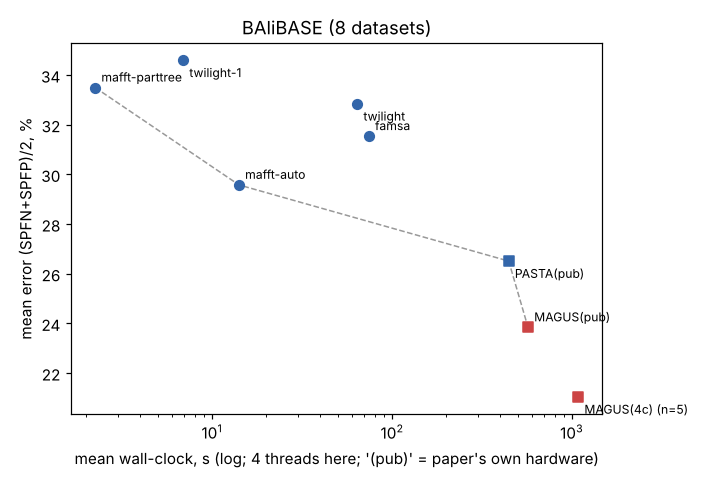
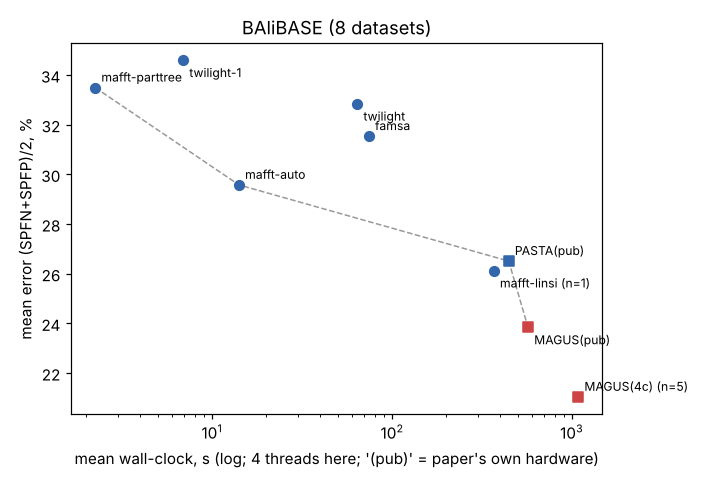
sota2026: diagnostics, nucleotide merge pilot, BAliBASE L-INS-i
Claude-Session: https://claude.ai/code/session_012Rgpxy2uEEPz2XSy4Tz17n

diff --git a/cs581/sota2026/code/analyze.py b/cs581/sota2026/code/analyze.py
@@ -225,6 +225,9 @@ def merge_pilot():
     if not os.path.exists(path):
         return
     rows = [r for r in map(json.loads, open(path)) if r["status"] == "ok"]
+    for r in rows:
+        if r["backbones"] == "tool":
+            r["tool"] += " (subsets+backbones)"
     ctl = {r["rep"]: r for r in rows if r["tool"] == "cached-linsi"}
     out = ["## MAGUS with a different base method (merge pilot)\n",
            "Same MAGUS decomposition (25 subsets) and the same 10 MAFFT L-INS-i backbones as MAGUS's own run; "

diff --git a/cs581/sota2026/results/full_table.md b/cs581/sota2026/results/full_table.md
@@ -2,28 +2,28 @@
 
 MAGUS(pub)/PASTA(pub) = FastSP on the authors' published alignment of the same replicate; their seconds are the paper's own timing (different hardware). MAGUS(4c) = earlier rerun of MAGUS(Fast) with the paper's flags on this 4-core machine type (cs581/experiments/runs/<rep>/prep.json; random backbones, so not identical to the published alignment).
 
-| dataset | MAGUS(pub) | MAGUS(4c) | PASTA(pub) | famsa | twilight-1 | twilight | mafft-parttree | mafft-auto |
-|---|---|---|---|---|---|---|---|---|
-| 1000L1_R0 | 8.1 (716s) | 7.5 (1870s) | 8.3 (1844s) | 33.1 (48s) | 97.9 (17s) | 98.1 (136s) | 98.0 (39s) | 99.0 (18s) |
-| 1000L2_R0 | 3.8 (673s) | 4.5 (1500s) | 6.3 (1615s) | 37.9 (223s) | 97.8 (20s) | 98.1 (243s) | 98.0 (39s) | 99.3 (20s) |
-| 1000L3_R0 | 12.7 (873s) | 11.3 (1737s) | 15.8 (2486s) | 63.6 (344s) | 98.0 (21s) | 98.2 (253s) | 98.3 (39s) | 99.3 (20s) |
-| RNASim_R0 | 9.6 (2227s) | 9.9 (888s) | 10.1 (3102s) | fail rc=-9 (357s) | 14.4 (21s) | 11.1 (230s) | 23.7 (60s) | 22.0 (26s) |
-| BBA0039_R0 | 4.5 (157s) | 4.7 (244s) | 4.3 (462s) | 5.5 (56s) | 6.9 (8s) | 8.0 (100s) | 6.7 (2s) | 5.5 (1s) |
-| BBA0067_R0 | 25.6 (371s) | 26.3 (1051s) | 25.7 (373s) | 32.0 (87s) | 42.9 (6s) | 37.3 (54s) | 38.4 (2s) | 33.2 (13s) |
-| BBA0081_R0 | 57.0 (1012s) |  | 74.1 (548s) | 72.2 (96s) | 75.9 (6s) | 72.3 (45s) | 75.7 (2s) | 68.3 (45s) |
-| BBA0101_R0 | 28.5 (477s) | 29.2 (829s) | 29.2 (381s) | 35.2 (88s) | 42.4 (7s) | 39.7 (65s) | 39.7 (3s) | 36.5 (14s) |
-| BBA0117_R0 | 12.1 (14s) |  | 12.1 (35s) | 15.2 (11s) | 24.5 (0s) | 20.4 (45s) | 25.1 (0s) | 16.4 (1s) |
-| BBA0134_R0 | 18.7 (845s) |  | 20.4 (573s) | 33.2 (83s) | 32.8 (6s) | 28.3 (68s) | 29.8 (2s) | 25.2 (13s) |
-| BBA0154_R0 | 21.1 (562s) | 21.7 (1106s) | 22.5 (307s) | 25.3 (77s) | 25.4 (6s) | 26.3 (55s) | 25.7 (2s) | 25.1 (7s) |
-| BBA0190_R0 | 23.1 (1117s) | 23.4 (2177s) | 23.9 (879s) | 33.7 (97s) | 26.0 (16s) | 30.4 (80s) | 26.9 (4s) | 26.5 (18s) |
-| 16S.T_R0 | 9.9 (2918s) |  | 12.9 (6979s) | 17.6 (123s) | 12.7 (78s) |  | 18.8 (215s) | 19.4 (241s) |
-| 1000M1_R0 | 11.5 (674s) |  | 13.0 (1993s) | 50.4 (773s) | 97.6 (30s) |  | 98.1 (39s) | 99.2 (25s) |
-| 1000M2_R0 | 8.3 (968s) | 8.2 (1493s) | 13.7 (2007s) | 43.6 (471s) | 97.9 (30s) |  | 98.0 (38s) | 99.0 (23s) |
-| 1000M3_R0 | 4.1 (586s) | 4.5 (1145s) | 5.6 (1328s) | 15.2 (254s) | 88.2 (22s) |  | 83.6 (33s) | 71.8 (17s) |
-| 1000M4_R0 | 1.1 (408s) | 1.2 (992s) | 1.5 (1205s) | 2.5 (27s) | 3.3 (8s) |  | 5.5 (21s) | 5.4 (6s) |
-| 1000S1_R0 | 8.5 (685s) | 9.8 (1563s) | 11.7 (1769s) | 26.5 (39s) | 96.8 (15s) |  | 97.1 (37s) | 98.8 (16s) |
-| 1000S2_R0 | 3.5 (476s) | 4.7 (994s) | 5.7 (1530s) | 13.7 (37s) | 96.7 (15s) |  | 96.8 (37s) | 98.9 (16s) |
-| 1000S3_R0 | 4.5 (533s) | 4.5 (1338s) | 4.9 (1343s) | 24.7 (38s) | 97.2 (16s) |  | 97.7 (38s) | 99.0 (19s) |
+| dataset | MAGUS(pub) | MAGUS(4c) | PASTA(pub) | famsa | twilight-1 | twilight | mafft-parttree | mafft-auto | mafft-linsi |
+|---|---|---|---|---|---|---|---|---|---|
+| 1000L1_R0 | 8.1 (716s) | 7.5 (1870s) | 8.3 (1844s) | 33.1 (48s) | 97.9 (17s) | 98.1 (136s) | 98.0 (39s) | 99.0 (18s) |  |
+| 1000L2_R0 | 3.8 (673s) | 4.5 (1500s) | 6.3 (1615s) | 37.9 (223s) | 97.8 (20s) | 98.1 (243s) | 98.0 (39s) | 99.3 (20s) |  |
+| 1000L3_R0 | 12.7 (873s) | 11.3 (1737s) | 15.8 (2486s) | 63.6 (344s) | 98.0 (21s) | 98.2 (253s) | 98.3 (39s) | 99.3 (20s) |  |
+| RNASim_R0 | 9.6 (2227s) | 9.9 (888s) | 10.1 (3102s) | fail rc=-9 (357s) | 14.4 (21s) | 11.1 (230s) | 23.7 (60s) | 22.0 (26s) |  |
+| BBA0039_R0 | 4.5 (157s) | 4.7 (244s) | 4.3 (462s) | 5.5 (56s) | 6.9 (8s) | 8.0 (100s) | 6.7 (2s) | 5.5 (1s) |  |
+| BBA0067_R0 | 25.6 (371s) | 26.3 (1051s) | 25.7 (373s) | 32.0 (87s) | 42.9 (6s) | 37.3 (54s) | 38.4 (2s) | 33.2 (13s) | 26.1 (367s) |
+| BBA0081_R0 | 57.0 (1012s) |  | 74.1 (548s) | 72.2 (96s) | 75.9 (6s) | 72.3 (45s) | 75.7 (2s) | 68.3 (45s) |  |
+| BBA0101_R0 | 28.5 (477s) | 29.2 (829s) | 29.2 (381s) | 35.2 (88s) | 42.4 (7s) | 39.7 (65s) | 39.7 (3s) | 36.5 (14s) |  |
+| BBA0117_R0 | 12.1 (14s) |  | 12.1 (35s) | 15.2 (11s) | 24.5 (0s) | 20.4 (45s) | 25.1 (0s) | 16.4 (1s) |  |
+| BBA0134_R0 | 18.7 (845s) |  | 20.4 (573s) | 33.2 (83s) | 32.8 (6s) | 28.3 (68s) | 29.8 (2s) | 25.2 (13s) |  |
+| BBA0154_R0 | 21.1 (562s) | 21.7 (1106s) | 22.5 (307s) | 25.3 (77s) | 25.4 (6s) | 26.3 (55s) | 25.7 (2s) | 25.1 (7s) |  |
+| BBA0190_R0 | 23.1 (1117s) | 23.4 (2177s) | 23.9 (879s) | 33.7 (97s) | 26.0 (16s) | 30.4 (80s) | 26.9 (4s) | 26.5 (18s) |  |
+| 16S.T_R0 | 9.9 (2918s) |  | 12.9 (6979s) | 17.6 (123s) | 12.7 (78s) |  | 18.8 (215s) | 19.4 (241s) |  |
+| 1000M1_R0 | 11.5 (674s) |  | 13.0 (1993s) | 50.4 (773s) | 97.6 (30s) |  | 98.1 (39s) | 99.2 (25s) |  |
+| 1000M2_R0 | 8.3 (968s) | 8.2 (1493s) | 13.7 (2007s) | 43.6 (471s) | 97.9 (30s) |  | 98.0 (38s) | 99.0 (23s) |  |
+| 1000M3_R0 | 4.1 (586s) | 4.5 (1145s) | 5.6 (1328s) | 15.2 (254s) | 88.2 (22s) |  | 83.6 (33s) | 71.8 (17s) |  |
+| 1000M4_R0 | 1.1 (408s) | 1.2 (992s) | 1.5 (1205s) | 2.5 (27s) | 3.3 (8s) |  | 5.5 (21s) | 5.4 (6s) |  |
+| 1000S1_R0 | 8.5 (685s) | 9.8 (1563s) | 11.7 (1769s) | 26.5 (39s) | 96.8 (15s) |  | 97.1 (37s) | 98.8 (16s) |  |
+| 1000S2_R0 | 3.5 (476s) | 4.7 (994s) | 5.7 (1530s) | 13.7 (37s) | 96.7 (15s) |  | 96.8 (37s) | 98.9 (16s) |  |
+| 1000S3_R0 | 4.5 (533s) | 4.5 (1338s) | 4.9 (1343s) | 24.7 (38s) | 97.2 (16s) |  | 97.7 (38s) | 99.0 (19s) |  |
 
 ## Paired comparison vs published MAGUS(Fast), same replicate (Δ = tool − MAGUS, points; W/T/L = tool better/tie(±0.05)/worse; Wilcoxon signed-rank)
 
@@ -47,6 +47,7 @@ MAGUS(pub)/PASTA(pub) = FastSP on the authors' published alignment of the same r
 | BAliBASE | twilight | 8 | +9.0 | 0/0/8 | 0.0078 |
 | BAliBASE | mafft-parttree | 8 | +9.7 | 0/0/8 | 0.0078 |
 | BAliBASE | mafft-auto | 8 | +5.7 | 0/0/8 | 0.0078 |
+| BAliBASE | mafft-linsi | 1 | +0.5 | 0/0/1 | – |
 | BAliBASE | MAGUS(4c) | 5 | +0.5 | 0/0/5 | 0.062 |
 | BAliBASE | PASTA(pub) | 8 | +2.7 | 2/0/6 | 0.055 |
 | 16S | famsa | 1 | +7.7 | 0/0/1 | – |
@@ -59,6 +60,7 @@ MAGUS(pub)/PASTA(pub) = FastSP on the authors' published alignment of the same r
 | all | twilight | 12 | +28.6 | 0/0/12 | 0.00049 |
 | all | mafft-parttree | 20 | +45.3 | 0/0/20 | 1.9e-06 |
 | all | mafft-auto | 20 | +43.6 | 0/0/20 | 1.9e-06 |
+| all | mafft-linsi | 1 | +0.5 | 0/0/1 | – |
 | all | MAGUS(4c) | 15 | +0.3 | 2/2/11 | 0.064 |
 | all | PASTA(pub) | 20 | +2.3 | 2/0/18 | 1.9e-05 |
 
@@ -66,4 +68,12 @@ MAGUS(pub)/PASTA(pub) = FastSP on the authors' published alignment of the same r
 
 | dataset | MAGUS(pub) | famsa | famsa-truetree | twilight-1 | twilight | twilight-truetree |
 |---|---|---|---|---|---|---|
-| 1000L1_R0 | 8.1 (716s) | 33.1 (48s) |  | 97.9 (17s) | 98.1 (136s) | 29.4 (16s) |
+| 1000L1_R0 | 8.1 (716s) | 33.1 (48s) | 16.3 (133s) | 97.9 (17s) | 98.1 (136s) | 29.4 (16s) |
+| 1000L2_R0 | 3.8 (673s) | 37.9 (223s) | 14.5 (125s) | 97.8 (20s) | 98.1 (243s) | 34.9 (13s) |
+| 1000L3_R0 | 12.7 (873s) | 63.6 (344s) | 27.2 (177s) | 98.0 (21s) | 98.2 (253s) | 40.9 (13s) |
+| 1000M1_R0 | 11.5 (674s) | 50.4 (773s) | 21.0 (141s) | 97.6 (30s) |  | 33.9 (13s) |
+| 1000M2_R0 | 8.3 (968s) | 43.6 (471s) | 22.4 (136s) | 97.9 (30s) |  | 23.9 (12s) |
+| 1000M3_R0 | 4.1 (586s) | 15.2 (254s) | 7.2 (252s) | 88.2 (22s) |  | 8.8 (20s) |
+| 1000M4_R0 | 1.1 (408s) | 2.5 (27s) | 2.3 (241s) | 3.3 (8s) |  | 1.1 (17s) |
+| 1000S1_R0 | 8.5 (685s) | 26.5 (39s) | 13.8 (253s) | 96.8 (15s) |  | 24.5 (24s) |
+| 1000S2_R0 | 3.5 (476s) | 13.7 (37s) |  | 96.7 (15s) |  | 11.7 (23s) |

diff --git a/cs581/sota2026/results/merge_table.md b/cs581/sota2026/results/merge_table.md
@@ -5,8 +5,13 @@ Same MAGUS decomposition (25 subsets) and the same 10 MAFFT L-INS-i backbones as
 | rep | base method | subset err (mean of 25) | MAGUS final err | Δ final vs control | subset align s (1 core) |
 |---|---|---|---|---|---|
 | 1000L3_R0 | L-INS-i (MAGUS's own) | 6.22 | 11.28 | – | – |
+| 1000L3_R0 | mafft-ginsi | 5.96 | 11.23 | -0.05 | 310 |
 | 1000M2_R0 | L-INS-i (MAGUS's own) | 3.88 | 8.23 | – | – |
+| 1000M2_R0 | mafft-ginsi | 3.59 | 7.97 | -0.25 | 288 |
+| 1000S1_R0 | L-INS-i (MAGUS's own) | 5.08 | 9.78 | – | – |
+| 1000S1_R0 | mafft-ginsi | 5.03 | 9.93 | +0.16 | 274 |
 | 16S.M_R0 | L-INS-i (MAGUS's own) | 6.97 | 12.86 | – | – |
+| 16S.M_R0 | mafft-ginsi | 6.97 | 12.89 | +0.03 | 113 |
 | BBA0039_R0 | L-INS-i (MAGUS's own) | 2.72 | 4.69 | – | – |
 | BBA0039_R0 | clustalo | 2.50 | 4.45 | -0.24 | 9 |
 | BBA0039_R0 | mafft-ginsi | 2.75 | 4.64 | -0.05 | 28 |
@@ -28,9 +33,13 @@ Same MAGUS decomposition (25 subsets) and the same 10 MAFFT L-INS-i backbones as
 | BBA0190_R0 | mafft-ginsi | 7.40 | 23.55 | +0.15 | 34 |
 | BBA0190_R0 | muscle5 | 7.04 | 22.98 | -0.42 | 130 |
 | RNASim_R0 | L-INS-i (MAGUS's own) | 4.92 | 9.92 | – | – |
+| RNASim_R0 | mafft-ginsi | 4.67 | 9.72 | -0.20 | 621 |
 
 | data | base method | n | mean Δ | better/tie/worse |
 |---|---|---|---|---|
+| 16S | mafft-ginsi | 1 | +0.03 | 0/1/0 |
 | BAliBASE | clustalo | 5 | -0.33 | 5/0/0 |
 | BAliBASE | mafft-ginsi | 5 | +0.03 | 1/2/2 |
 | BAliBASE | muscle5 | 5 | -0.48 | 4/0/1 |
+| RNASim | mafft-ginsi | 1 | -0.20 | 1/0/0 |
+| ROSE | mafft-ginsi | 3 | -0.05 | 1/1/1 |
